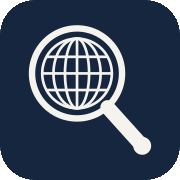
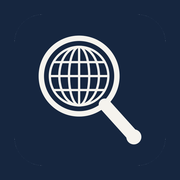
PWA + układ mobilny (iOS): manifest, service worker, dolne zakładki, tabela jako karty
- manifest.webmanifest, ikony maskable/apple-touch (pełny granat), meta standalone, theme-color
- sw.js: pliki aplikacji sieć-najpierw z fallbackiem offline, biblioteki/fonty cache; SharePoint/Graph/login bez ingerencji
- ≤768px: górny pasek (logo, motyw, wyloguj), dolny pasek 6 zakładek + Rozliczenie, FAB Dodaj audyt
- tabela audytów → karty (firma, PRJ, jednostka/program, daty, miasto, status, proforma, plan, rozliczenie), pasek koloru jednostki
- filtry w przewijanym wierszu, KPI 2×2, modale pełnoekranowe, safe-area

diff --git a/style.css b/style.css
@@ -1626,3 +1626,77 @@ tr.imp-write td { background: var(--lfa-success-bg); }
 
 /* FAB zgłoszeń odsunięty od prawego paska zakładek */
 @media (min-width: 901px) { .dev-fab { right: 258px; } }
+
+/* ============================================================
+   MOBILE (≤ 768px) — PWA: górny pasek + dolne zakładki jak w iOS, tabela jako karty
+   ============================================================ */
+.nav-ico { display: inline; }
+.nav-lbl { display: inline; margin-left: 6px; }
+@media (max-width: 768px) {
+  #page-app { display: block; }
+  .navbar, .nav-right { display: contents; }
+  .nav-left { position: fixed; top: 0; left: 0; right: 0; height: calc(52px + env(safe-area-inset-top, 0px)); padding: env(safe-area-inset-top, 0px) 12px 0;
+    background: var(--bg2); border-bottom: 1px solid var(--border); z-index: 100; display: flex; align-items: center; gap: 10px; }
+  .nav-left .lfa-mark { width: 28px; height: 30px; }
+  .nav-wm { font-size: 12.5px; }
+  .nav-wm .acrm-c { display: block; }
+  #nav-user, #btn-import { display: none; }
+  #btn-theme  { position: fixed; top: calc(env(safe-area-inset-top, 0px) + 9px); right: 90px; z-index: 101; padding: 5px 9px; }
+  #btn-logout { position: fixed; top: calc(env(safe-area-inset-top, 0px) + 9px); right: 12px; z-index: 101; padding: 6px 10px; font-size: 12.5px; }
+  /* Dolny pasek: 6 zakładek + Rozliczenie */
+  .nav-links { position: fixed; left: 0; right: 0; bottom: 0; z-index: 100; display: grid; grid-template-columns: repeat(7, 1fr);
+    padding: 4px 0 calc(4px + env(safe-area-inset-bottom, 0px)); background: var(--bg2); border-top: 1px solid var(--border); }
+  .nav-links::after { content: ""; }                          /* 7. slot zajmuje przycisk Rozliczenie (fixed) */
+  .nav-btn, #btn-settle { display: flex; flex-direction: column; align-items: center; justify-content: center; gap: 3px; min-height: 52px; padding: 4px 2px;
+    border: 0; border-radius: 8px; background: transparent; color: var(--text2); font-family: var(--font-data); font-weight: 600; box-shadow: none; text-align: center; min-width: 0; overflow: hidden; }
+  .nav-btn .nav-ico, #btn-settle .nav-ico { font-size: 19px; line-height: 1; }
+  .nav-btn .nav-lbl, #btn-settle .nav-lbl { display: block; width: 100%; margin: 0; font-size: 9.5px; line-height: 1.1; max-width: 100%; overflow: hidden; text-overflow: ellipsis; white-space: nowrap; }
+  .nav-btn.active { background: var(--lfa-info-bg); color: var(--lfa-primary); border-left: 0; }
+  #btn-settle { position: fixed; bottom: calc(4px + env(safe-area-inset-bottom, 0px)); right: 0; width: calc(100% / 7); z-index: 101; color: var(--lfa-accent); }
+  #btn-add-audit { position: fixed; right: 14px; bottom: calc(72px + env(safe-area-inset-bottom, 0px)); z-index: 99; border-radius: 999px; padding: 12px 18px; box-shadow: var(--lfa-shadow-lg); font-size: 14px; }
+  .dev-fab { right: 14px !important; bottom: calc(128px + env(safe-area-inset-bottom, 0px)); width: 44px; height: 44px; font-size: 20px; }
+  .app-main { padding-top: calc(52px + env(safe-area-inset-top, 0px)); padding-bottom: calc(76px + env(safe-area-inset-bottom, 0px)); }
+  .view { padding: 12px; }
+  /* Filtry: jeden przewijany wiersz; KPI 2×2 */
+  .filters-bar { flex-wrap: nowrap; overflow-x: auto; -webkit-overflow-scrolling: touch; padding-bottom: 4px; gap: 8px; scrollbar-width: none; }
+  .filters-bar::-webkit-scrollbar { display: none; }
+  .filters-bar > * { flex-shrink: 0; }
+  .search-input { width: 170px; }
+  .stats-bar { display: grid; grid-template-columns: 1fr 1fr; gap: 8px; }
+  .stat-card { min-width: 0; padding: 10px 12px; }
+  .stat-num { font-size: 22px; }
+  .myaudits-layout { flex-direction: column; align-items: stretch; }
+  .myaudits-main { width: 100%; }
+  .myaudits-cal, .myaudits-cal.collapsed { width: 100%; position: static; }
+  /* Tabela audytów → karty */
+  #audits-table { min-width: 0; }
+  #audits-table thead { display: none; }
+  #audits-table, #audits-table tbody, #audits-table tr, #audits-table td { display: block; }
+  #audits-table tr.audit-row { display: grid; grid-template-columns: 1fr 1fr; gap: 4px 10px; padding: 12px 14px 12px 12px; border-bottom: 1px solid var(--border); border-left: 4px solid var(--lfa-border); }
+  #audits-table tr.audit-row.row-body-cuc { border-left-color: var(--lfa-body-cu); }
+  #audits-table tr.audit-row.row-body-sgs { border-left-color: var(--lfa-body-sgs); }
+  #audits-table tr.audit-row td { padding: 0; border: 0; font-size: 12.5px; white-space: normal; min-width: 0; }
+  #audits-table td.firma-col { grid-column: 1 / -1; order: -3; font-weight: 700; font-size: 15px; line-height: 1.25; }
+  #audits-table td.prj-col { order: -2; grid-column: 1 / -1; font-family: var(--lfa-font-data); font-size: 11px; color: var(--text2); }
+  #audits-table td.prj-col::before { content: "PRJ "; }
+  #audits-table td.program-col { order: -1; grid-column: 1 / -1; }
+  #audits-table tr.audit-row td:nth-child(4), #audits-table tr.audit-row td:nth-child(8), #audits-table td.notes-col { display: none; }
+  #audits-table tr.audit-row td::before { display: block; font-size: 9.5px; letter-spacing: .08em; text-transform: uppercase; color: var(--text2); font-weight: 600; margin-bottom: 1px; }
+  #audits-table tr.audit-row td:nth-child(5)::before { content: "Data CU"; }
+  #audits-table tr.audit-row td:nth-child(6)::before { content: "Audyt LF"; }
+  #audits-table tr.audit-row td:nth-child(7)::before { content: "Miasto"; }
+  #audits-table tr.audit-row td:nth-child(9)::before { content: "Status"; }
+  #audits-table tr.audit-row td:nth-child(10)::before { content: "Proforma"; }
+  #audits-table tr.audit-row td:nth-child(11)::before { content: "Plan audytu"; }
+  #audits-table tr.audit-row td:nth-child(12)::before { content: "Rozliczenie"; }
+  #audits-table td.firma-col::before, #audits-table td.prj-col::before, #audits-table td.program-col::before { display: inline; font-size: inherit; letter-spacing: 0; text-transform: none; font-weight: inherit; color: inherit; margin: 0; }
+  #audits-table td.firma-col::before, #audits-table td.program-col::before { content: none; }
+  #audits-table td.date-col { font-family: var(--lfa-font-data); }
+  #audits-table td[colspan] { padding: 12px 14px; }
+  .row-preview-wrap td { padding: 0 !important; }
+  /* Modale na pełny ekran */
+  .modal-overlay { padding: 0; align-items: stretch; }
+  .modal { max-width: none; width: 100%; max-height: none; height: 100dvh; border-radius: 0; border: 0; }
+  .modal-header { padding: calc(env(safe-area-inset-top, 0px) + 14px) 16px 12px; }
+  .modal-body { padding: 14px 16px calc(24px + env(safe-area-inset-bottom, 0px)); }
+}

diff --git a/index.html b/index.html
@@ -2,7 +2,13 @@
 <html lang="pl">
 <head>
   <meta charset="UTF-8">
-  <meta name="viewport" content="width=device-width, initial-scale=1.0">
+  <meta name="viewport" content="width=device-width, initial-scale=1.0, viewport-fit=cover">
+  <link rel="manifest" href="manifest.webmanifest">
+  <meta name="theme-color" content="#16263F"> <!-- lfa-allow: granat z palety, meta nie czyta CSS -->
+  <meta name="apple-mobile-web-app-capable" content="yes">
+  <meta name="mobile-web-app-capable" content="yes">
+  <meta name="apple-mobile-web-app-status-bar-style" content="default">
+  <meta name="apple-mobile-web-app-title" content="Audit System">
   <title>LF Assurance Audit System</title>
   <meta name="color-scheme" content="light dark">
   <script>try{var t=localStorage.getItem("lfa-theme");if(t==="dark"||t==="light")document.documentElement.setAttribute("data-theme",t);}catch(e){}</script>
@@ -64,16 +70,16 @@
       </div>
     </div>
     <div class="nav-links">
-      <button class="nav-btn active" data-view="myaudits">📋 Audyty</button>
-      <button class="nav-btn" data-view="kalendarz">📅 Kalendarz</button>
-      <button class="nav-btn" data-view="checkaudit">✅ Check Audyt</button>
-      <button class="nav-btn" data-view="changes">🔄 Zmiany Audytora</button>
-      <button class="nav-btn" data-view="opieka">👨👦 Opieka — Szymon</button>
-      <button class="nav-btn" data-view="mapa">🗺 Mapa audytów</button>
+      <button class="nav-btn active" data-view="myaudits"><span class="nav-ico">📋</span><span class="nav-lbl">Audyty</span></button>
+      <button class="nav-btn" data-view="kalendarz"><span class="nav-ico">📅</span><span class="nav-lbl">Kalendarz</span></button>
+      <button class="nav-btn" data-view="checkaudit"><span class="nav-ico">✅</span><span class="nav-lbl">Check Audyt</span></button>
+      <button class="nav-btn" data-view="changes"><span class="nav-ico">🔄</span><span class="nav-lbl">Zmiany Audytora</span></button>
+      <button class="nav-btn" data-view="opieka"><span class="nav-ico">👨👦</span><span class="nav-lbl">Opieka — Szymon</span></button>
+      <button class="nav-btn" data-view="mapa"><span class="nav-ico">🗺</span><span class="nav-lbl">Mapa audytów</span></button>
     </div>
     <div class="nav-right">
       <button id="btn-import" class="btn-action" title="Importuj kwartalny plan z CUC">⬆ Import CUC</button>
-      <button id="btn-settle" class="btn-action" title="Rozliczenie audytów (CU / SGS) — eksport miesięczny i raporty">📊 Rozliczenie</button>
+      <button id="btn-settle" class="btn-action" title="Rozliczenie audytów (CU / SGS) — eksport miesięczny i raporty"><span class="nav-ico">📊</span><span class="nav-lbl">Rozliczenie</span></button>
       <button id="btn-add-audit" class="btn-action btn-action-green" title="Dodaj nieplanowany audyt">＋ Dodaj audyt</button>
       <span id="nav-user"></span>
       <button id="btn-theme" class="btn-ghost" title="Przełącz tryb jasny / ciemny" aria-label="Przełącz tryb jasny / ciemny">🌙</button>
@@ -972,5 +978,6 @@
 <script src="auth.js"></script>
 <script src="api.js"></script>
 <script src="app.js"></script>
+<script>if ("serviceWorker" in navigator) { window.addEventListener("load", () => navigator.serviceWorker.register("sw.js").catch(() => {})); }</script>
 </body>
 </html>

diff --git a/sw.js b/sw.js
@@ -1,0 +1,36 @@
+// Service worker — LF Assurance Audit System (PWA)
+// Strategia: pliki aplikacji = sieć najpierw (świeży kod po każdym deployu), cache jako fallback offline;
+// biblioteki/fonty/ikony = cache najpierw. Zapytania do SharePoint/Graph/logowania/kafli mapy NIE są przechwytywane.
+const VERSION = "lfa-v1";
+const SHELL = ["/", "/index.html", "/style.css", "/app.js", "/api.js", "/auth.js",
+  "/design/tokens/tokens.css", "/design/tokens/app.css", "/design/components.css", "/fonts/lfa/lfa-fonts.css",
+  "/leaflet.css", "/leaflet.js", "/msal-browser.min.js", "/xlsx.full.min.js", "/jspdf.umd.min.js", "/jspdf.plugin.autotable.min.js",
+  "/favicon.svg", "/favicon-192.png", "/auditcrm-icon-512.png", "/manifest.webmanifest"];
+const APP_FILES = new Set(["/", "/index.html", "/style.css", "/app.js", "/api.js", "/auth.js",
+  "/design/tokens/tokens.css", "/design/tokens/app.css", "/design/components.css", "/manifest.webmanifest"]);
+
+self.addEventListener("install", e => {
+  e.waitUntil(caches.open(VERSION).then(c => Promise.allSettled(SHELL.map(u => c.add(u)))).then(() => self.skipWaiting()));
+});
+self.addEventListener("activate", e => {
+  e.waitUntil(caches.keys().then(keys => Promise.all(keys.filter(k => k !== VERSION).map(k => caches.delete(k)))).then(() => self.clients.claim()));
+});
+self.addEventListener("fetch", e => {
+  const req = e.request;
+  if (req.method !== "GET") return;
+  const url = new URL(req.url);
+  if (url.origin !== self.location.origin) return;                 // SharePoint, Graph, login, OSM — bez ingerencji
+  const path = url.pathname;
+  const isNav = req.mode === "navigate";
+  if (isNav || APP_FILES.has(path)) {
+    e.respondWith(fetch(req).then(res => {
+      if (res.ok) { const copy = res.clone(); caches.open(VERSION).then(c => c.put(isNav ? "/index.html" : req, copy)); }
+      return res;
+    }).catch(() => caches.match(isNav ? "/index.html" : req)));
+    return;
+  }
+  e.respondWith(caches.match(req).then(hit => hit || fetch(req).then(res => {
+    if (res.ok && (path.startsWith("/fonts/") || /\.(js|css|png|svg|ttf|woff2?)$/.test(path))) { const copy = res.clone(); caches.open(VERSION).then(c => c.put(req, copy)); }
+    return res;
+  })));
+});
